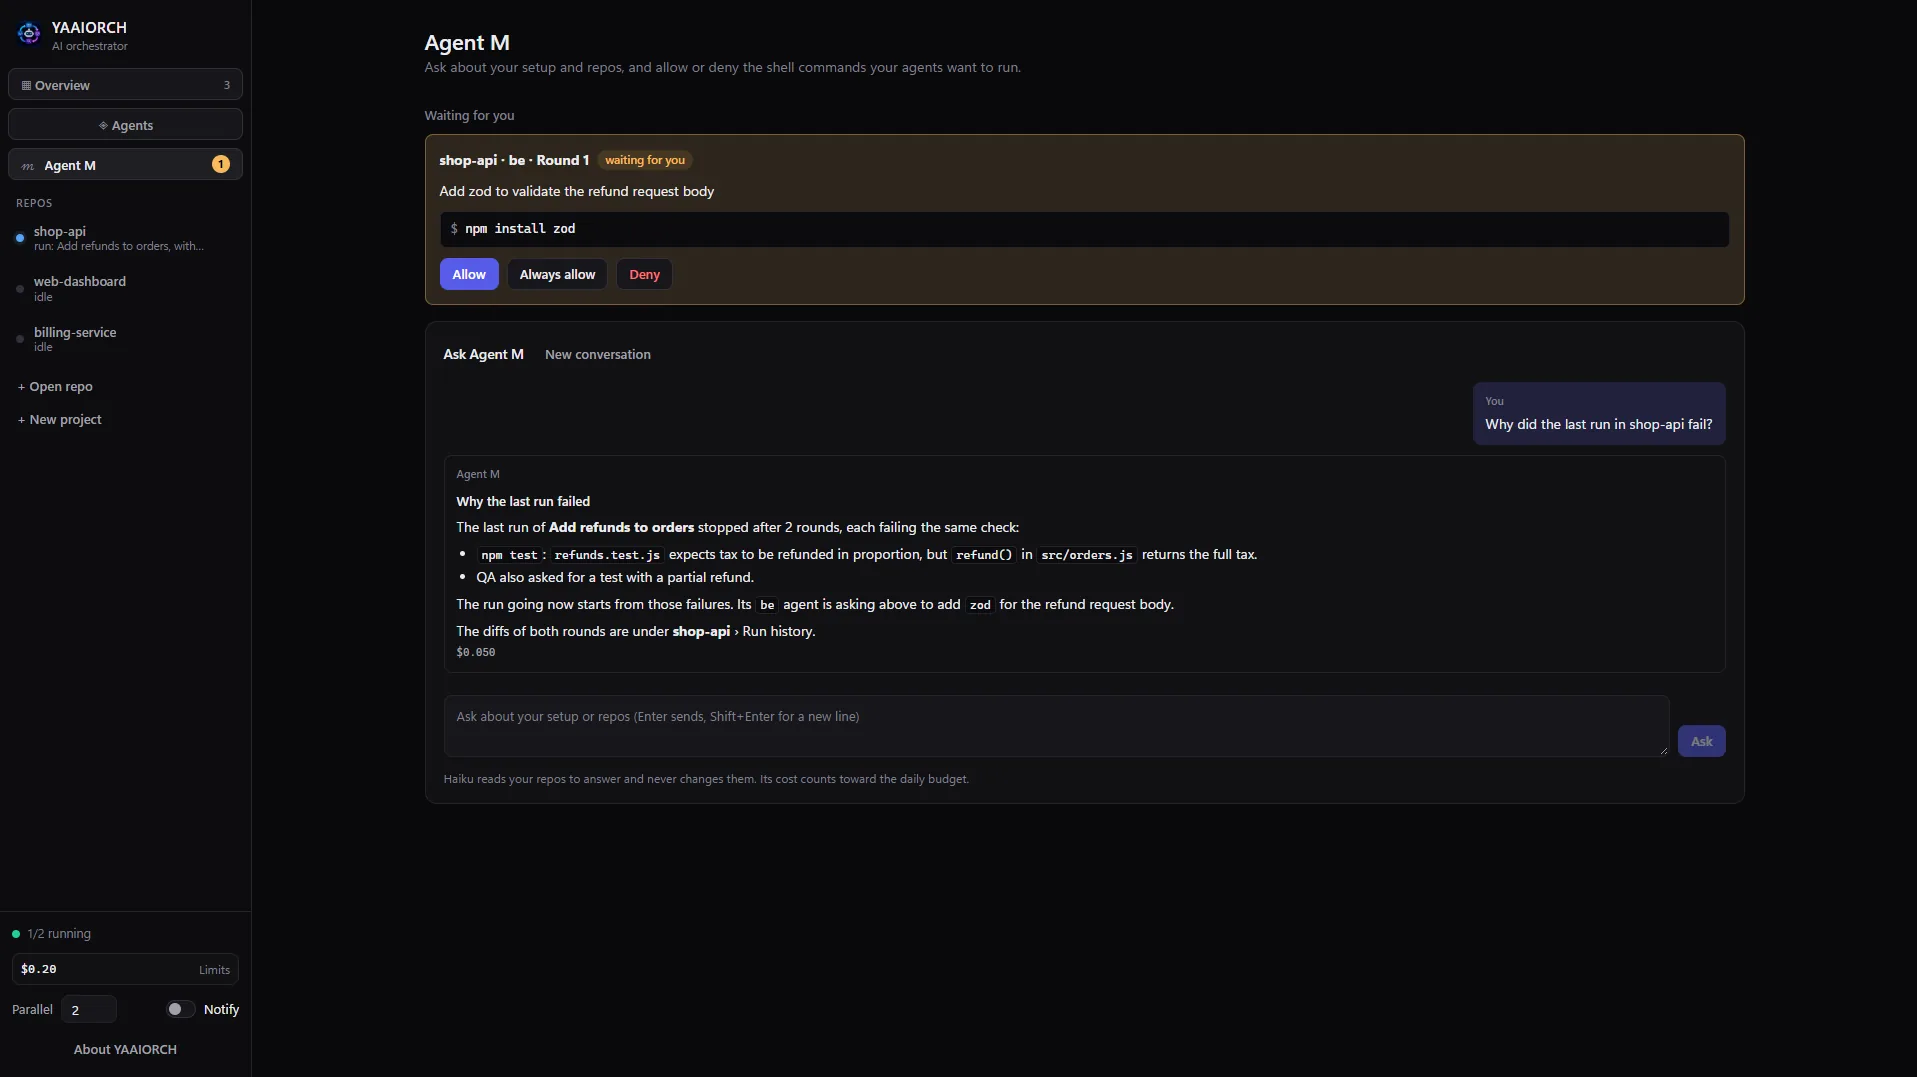
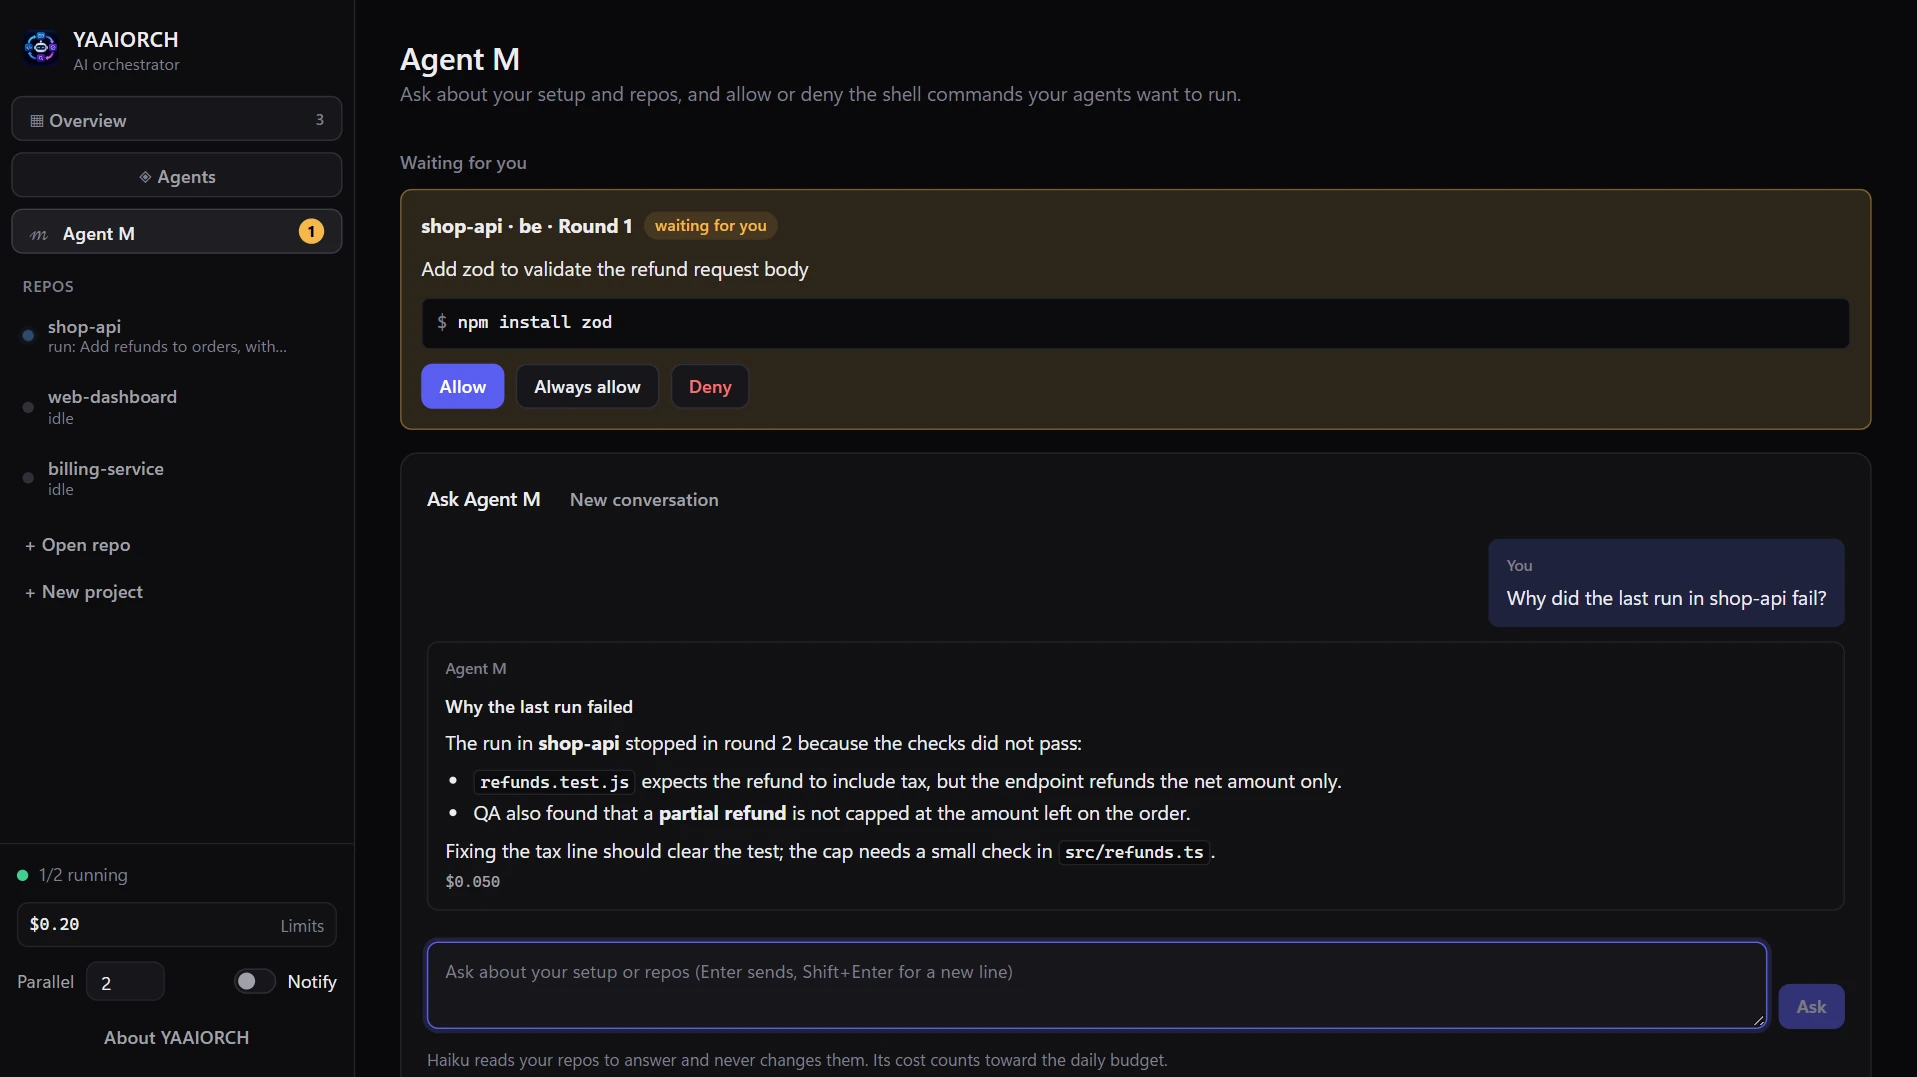
Update changelog and improve landing page screenshot display

diff --git a/docs/index.html b/docs/index.html
@@ -373,15 +373,20 @@
         border-radius: 14px;
         background: #09090b;
         box-shadow: 0 30px 80px rgb(0 0 0 / 45%);
+        aspect-ratio: 1917 / 1077;
       }
 
       .app-shot img {
         display: block;
         width: 100%;
-        height: auto;
+        height: 100%;
+        object-fit: cover;
+        object-position: top left;
       }
 
+      /* Room for two lines, so a longer caption never moves the tabs. */
       .app-shot figcaption {
+        min-height: 3em;
         margin-top: 14px;
         color: var(--muted);
         font-size: 14px;

diff --git a/CHANGELOG.md b/CHANGELOG.md
@@ -5,6 +5,9 @@ and the project uses [semantic versioning](https://semver.org/) (0.x: anything m
 
 ## [Unreleased]
 
+### Fixed
+- Landing page: the screenshot slider keeps one frame ratio and a two-line caption slot, so the tabs no longer move between slides. The three screenshots were retaken at the same size and zoom.
+
 ## [0.5.6] - 2026-11-18
 
 ### Added
